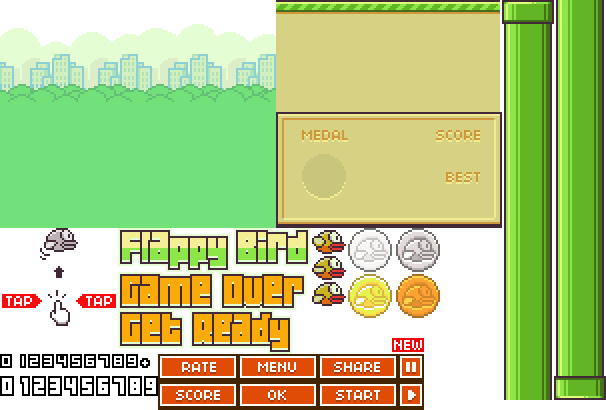
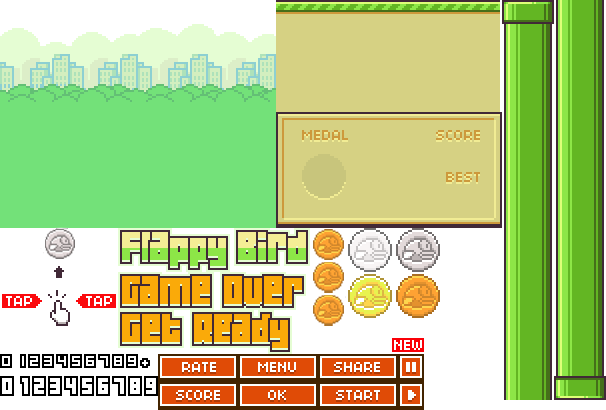
Added files via upload

Changed region(s): [[0.505, 0.5561, 0.5941, 0.7902], [0.0594, 0.5561, 0.1485, 0.6439]]

diff --git a/index.html b/index.html
@@ -3,11 +3,10 @@
 <head>
 	<meta charset="UTF-8">
 	<meta name="viewport" content="width=device-width, initial-scale=1, maximum-scale=1, minimum-scale=1, user-scalable=no">
-
 	<meta name="apple-mobile-web-app-capable" content="yes">
 	<meta name="mobile-web-app-capable" content="yes">
 
-	<title>FlappyJS</title>
+	<title>Flappy Coin</title>
 
 	<script src="sprite.js"></script>
 
@@ -24,11 +23,6 @@
 	</style>
 </head>
 <body>
-<noscript>
-<p>For full functionality of this page it is necessary to enable JavaScript.
-Here are the <a href="http://www.enable-javascript.com/" target="_blank">
-instructions how to enable JavaScript in your web browser</a>.</p>
-</noscript>
 <script>
 
 var
@@ -239,7 +233,7 @@ pipes = {
  * @param  {MouseEvent/TouchEvent} evt tho on press event
  */
 function onpress(evt) {
-
+	
 	switch (currentstate) {
 
 		// change state and update bird velocity

diff --git a/sprite.js b/sprite.js
@@ -50,9 +50,9 @@ Sprite.prototype.draw = function(ctx, x, y) {
 function initSprites(img) {
 
 	s_bird = [
-		new Sprite(img, 156, 115, 17, 12),
-		new Sprite(img, 156, 128, 17, 12),
-		new Sprite(img, 156, 141, 17, 12)
+		new Sprite(img, 156, 115, 17, 15),
+		new Sprite(img, 156, 131, 17, 15),
+		new Sprite(img, 156, 147, 17, 15)
 	];
 	
 	s_bg = new Sprite(img,   0, 0, 138, 114);
